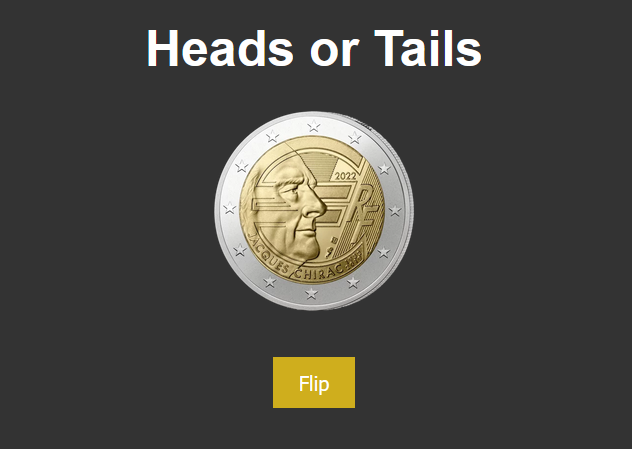
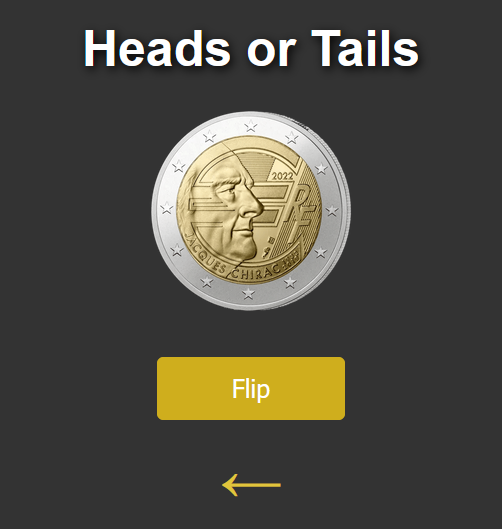
Add files via upload

Changed region(s): [[0.2988, 0.1871, 0.7171, 0.9354], [0.1494, 0.0312, 0.8367, 0.1559]]

diff --git a/style.css b/style.css
@@ -29,12 +29,6 @@ body {
     text-align: center;
     user-select: none;
 }
-
-footer {
-    position: absolute;
-    width: 100%;
-    bottom: 0; left: 0; right: 0;
-  }
   
 a {
     color: rgb(225, 197, 60);
@@ -52,6 +46,8 @@ a:hover {
     height: 160px;
     transition: transform 1s ease-in;
     transform-style: preserve-3d;
+    margin: auto;
+    text-align: center;
 }
 
 #flip {
@@ -59,14 +55,11 @@ a:hover {
 	border: 1px solid #cfae1d;
     border-radius: 5px;
 	color: white;
-	padding: 10px 20px;
-	text-align: center;
-	text-decoration: none;
-	display: inline-block;
+	width: 150px;
+    height: 50px;
 	font-size: 20px;
 	cursor: pointer;
-    box-shadow: 2px 2px 4px black;
-	transition-duration: 0.2s;
+	transition: 0.2s;
 }
 
 #flip:hover {
@@ -105,10 +98,4 @@ a:hover {
 
 .flipTail {
     animation: resultTail 2s ease-out forwards;
-}
-
-@media only screen and (max-width: 800px) {
-    footer {
-        position: relative;
-    }
 }

diff --git a/index.html b/index.html
@@ -4,15 +4,16 @@
   <meta charset="utf-8">
   <meta name="viewport" content="width=device-width, user-scalable=no">
   <link rel="stylesheet" href="style.css">
-  <title>Heads or Tails</title>
+  <title>Heads or Tails | PouletEnSlip</title>
 </head>
 <body>
   <h1>Heads or Tails</h1>
-  <center><div id="coin">
+  <div id="coin">
     <div class="side head"></div>
     <div class="side tail"></div>
-  </div></center><br><br>
+  </div><br><br>
   <button id="flip" onclick=fnClick()>Flip</button><br><br>
+  <a href="../">&#x2190;</a>
 </body>
 <script src="script.js"></script>
 </html>
